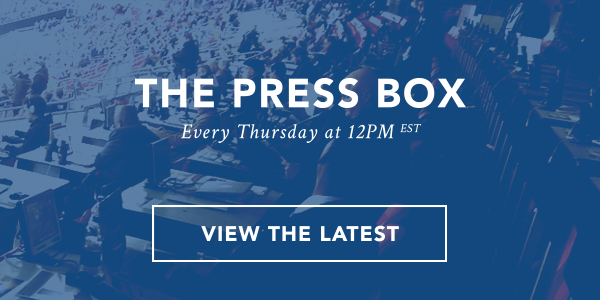
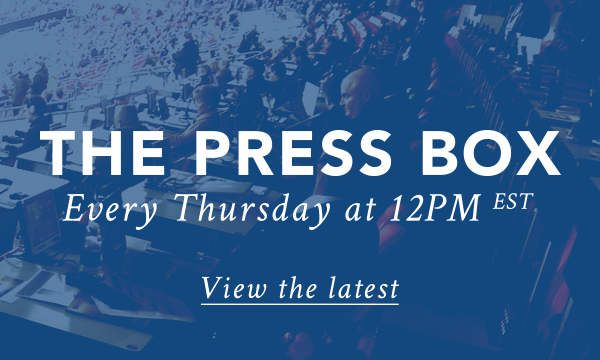
make text in press box image lager

diff --git a/src/scss/_controls.scss b/src/scss/_controls.scss
@@ -1,5 +1,5 @@
 $promoImage: "../img/press-box-ad.jpg";
-$promoHeight: 130px;
+$promoHeight: 156px;
 $promoTarget: "pb-latest"; //"32-32-link"; // either link title or false
 $promoIsLink: true;
 $promoTop: 440px;
